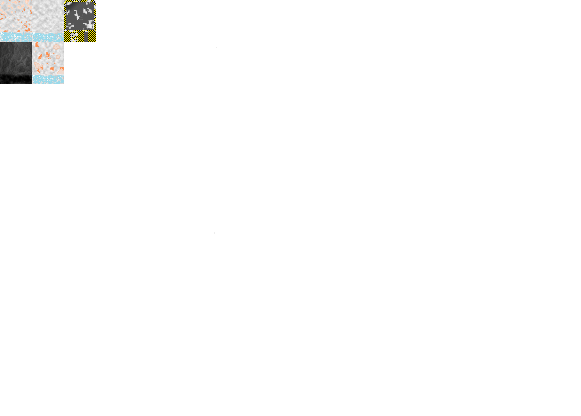
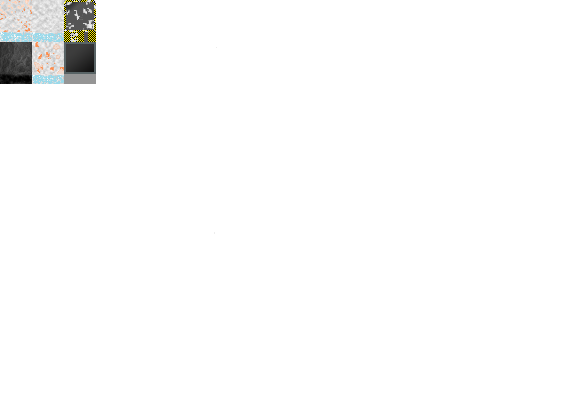
Fixed Level Editor and did some other stuff

Changed region(s): [[0.0929, 0.0938, 0.1859, 0.2188]]

diff --git a/Mars Raiders/Mars Raiders/Mars Raiders/Classes/Level/Level.cs b/Mars Raiders/Mars Raiders/Mars Raiders/Classes/Level/Level.cs
@@ -26,48 +26,64 @@ namespace Mars_Raiders
         private HUD hud = new HUD();
         public bool Paused;
         public bool FirstTickPaused;
-        public const int XOffset = 32, YOffset = 32;
-       
-        public void generate()
+        public const int XOffset = 64, YOffset = 64;
+
+        public void generate(LevelType Type)
         {
-            Map = new Tile[(int)MapDimensions.X, (int)MapDimensions.Y];
-            for (int y = 0; y < (int)MapDimensions.Y; y++)
+
+            if (Type == LevelType.Interior)
             {
-                for (int x = 0; x < (int)MapDimensions.X; x++)
+                MapDimensions = new Vector2(40, 20);
+                Map = new Tile[(int)MapDimensions.X, (int)MapDimensions.Y];
+                for (int y = 0; y < (int)MapDimensions.Y; y++)
                 {
-                    Map[x,y] = new TileIceRock();
-                }
-            }
-            for (int y = 0; y < (int)MapDimensions.Y; y++)
-            {                   
-                for (double x = 0; x < (int)MapDimensions.X; x++)
-                {
-                    if (y < (Math.Cos((x / 20) - 10)) * 100)
+                    for (int x = 0; x < (int)MapDimensions.X; x++)
                     {
-                        Map[(int)Math.Round(x), y] = new TileStone();
+                        Map[x, y] = new TileInteriorPanel();
                     }
-                    
                 }
             }
-                
-                
-            
+            else
+            {
+                Map = new Tile[(int)MapDimensions.X, (int)MapDimensions.Y];
+                for (int y = 0; y < (int)MapDimensions.Y; y++)
+                {
+                    for (int x = 0; x < (int)MapDimensions.X; x++)
+                    {
+                        Map[x, y] = new TileIceRock();
+                    }
+                }
+                for (int y = 0; y < (int)MapDimensions.Y; y++)
+                {
+                    for (double x = 0; x < (int)MapDimensions.X; x++)
+                    {
+                        if (y < (Math.Cos((x / 20) - 10)) * 100)
+                        {
+                            Map[(int)Math.Round(x), y] = new TileStone();
+                        }
 
-            for (int x = 1; x < 9; x++)
-            {
-                Map[x, 5].Raised = true;
-                Map[x, 4].Raised = true;
-            }
+                    }
+                }
 
-            for (int x = 3; x < (int)MapDimensions.X - 2; x++)
-            {
-                Map[x, 3].Raised = true;
+
+
+
+                for (int x = 1; x < 9; x++)
+                {
+                    Map[x, 5].Raised = true;
+                    Map[x, 4].Raised = true;
+                }
+
+                for (int x = 3; x < (int)MapDimensions.X - 2; x++)
+                {
+                    Map[x, 3].Raised = true;
+                }
+                for (int x = 3; x < 8; x++)
+                {
+                    Map[x, 7] = new TileStone();
+                }
+
             }
-            for (int x = 3; x < 8; x++)
-            {
-                Map[x, 7] = new TileStone();
-            }
-            
         }
         public void Draw(SpriteBatch SB, ContentManager C)
         {
@@ -97,6 +113,15 @@ namespace Mars_Raiders
         }
 
 
+        public Level()
+        {
+
+        }
+
+        public Level(Vector2 Dimensions, LevelType type)
+        {
+
+        }
  
 
         public void update(GameTime gametime)
@@ -156,6 +181,12 @@ namespace Mars_Raiders
                         break;
                     case "3":
                         Map[X, Y] = new TileIceRock();
+                        break;
+                    case "4":
+                        Map[X, Y] = new TileExteriorPanel();
+                        break;
+                    case "5":
+                        Map[X,Y] = new TileInteriorPanel();
                         break;
                 }
                 Map[X, Y].Raised = Convert.ToBoolean(Data[1]);

diff --git a/Mars Raiders/Mars Raiders/Mars Raiders/Classes/Entity/EntityCursor.cs b/Mars Raiders/Mars Raiders/Mars Raiders/Classes/Entity/EntityCursor.cs
@@ -14,6 +14,9 @@ namespace Mars_Raiders
     public class EntityCursor : Entity
     {
 
+        private bool BrushToggle;
+        private Tile BrushTile = new TileIce();
+
         public EntityCursor()
             : base()
         {
@@ -32,8 +35,8 @@ namespace Mars_Raiders
 
             if (!level.Paused)
             {
-                this.x = (int)((MousePosition.X + Level.XOffset) / Tile.TileSideLengthInPixels / Game1.Scale / Game1.Zoom);
-                this.y = (int)((MousePosition.Y + Level.YOffset) / Tile.TileSideLengthInPixels / Game1.Scale / Game1.Zoom);
+                this.x = (int)(MousePosition.X) - Level.XOffset;
+                this.y = (int)(MousePosition.Y) - Level.YOffset;
 
                  if (Game1.IM["Pause"].IsTapped)
                 {
@@ -41,8 +44,15 @@ namespace Mars_Raiders
                 }
                 if (Game1.IM["Raise"].IsTapped)
                 {
-                    level.Map[x, y].Raised = !level.Map[x, y].Raised;
+                   // level.Map[Functions.toGridCoords(x), Functions.toGridCoords(y)].Raised = !level.Map[Functions.toGridCoords(x), Functions.toGridCoords(y)].Raised;
+                    BrushToggle = !level.Map[Functions.toGridCoords(x), Functions.toGridCoords(y)].Raised;
                 }
+                if (Game1.IM["Raise"].IsDown)
+                {
+                    // level.Map[Functions.toGridCoords(x), Functions.toGridCoords(y)].Raised = !level.Map[Functions.toGridCoords(x), Functions.toGridCoords(y)].Raised;
+                    level.Map[Functions.toGridCoords(x), Functions.toGridCoords(y)].Raised = BrushToggle ;
+                }
+              
                 if (Game1.IM["ZoomOut"].IsTapped)
                 {
                     Game1.Zoom -= 0.1f;
@@ -53,19 +63,19 @@ namespace Mars_Raiders
                 }
                 if (Game1.IM["PlaceBlock1"].IsTapped)
                 {
-                    level.Map[x, y] = new TileGritIce();
+                    level.Map[Functions.toGridCoords(x), Functions.toGridCoords(y)] = new TileGritIce();
                 }
                 if (Game1.IM["PlaceBlock2"].IsTapped)
                 {
-                    level.Map[x, y] = new TileIceRock();
+                    level.Map[Functions.toGridCoords(x), Functions.toGridCoords(y)] = new TileIceRock();
                 }
                 if (Game1.IM["PlaceBlock3"].IsTapped)
                 {
-                    level.Map[x, y] = new TileStone();
+                     level.Map[Functions.toGridCoords(x), Functions.toGridCoords(y)] =  new TileStone();
                 }
                 if (Game1.IM["PlaceBlock4"].IsTapped)
                 {
-                    level.Map[x, y] = new TileIce();
+                    level.Map[Functions.toGridCoords(x), Functions.toGridCoords(y)] = new TileIce();
                 }
                 if (Game1.IM["Save"].IsTapped)
                 {

diff --git a/Mars Raiders/Mars Raiders/Mars Raiders/Classes/Entity/Entity.cs b/Mars Raiders/Mars Raiders/Mars Raiders/Classes/Entity/Entity.cs
@@ -32,7 +32,7 @@ namespace Mars_Raiders
 
         public void render(SpriteBatch SB, ContentManager CM)
         {                                                                                      //removed * FrameSize
-            SB.Draw(CM.Load<Texture2D>("Graphics/TileSheet/EntityFrames"), new Rectangle((int)(x *  Game1.Scale * Game1.Zoom) + Level.XOffset,(int)((y - RaisedOffset) * Game1.Scale * Game1.Zoom) + Level.YOffset, (int)(FrameSizeInPixels * Game1.Scale * Game1.Zoom), (int)(FrameSizeInPixels * Game1.Scale * Game1.Zoom)), //the destination rectangle
+            SB.Draw(CM.Load<Texture2D>("Graphics/TileSheet/EntityFrames"), new Rectangle((int)(x *  Game1.Scale * Game1.Zoom) + Level.XOffset,(int)(y * Game1.Scale * Game1.Zoom) + Level.YOffset, (int)(FrameSizeInPixels * Game1.Scale * Game1.Zoom), (int)(FrameSizeInPixels * Game1.Scale * Game1.Zoom)), //the destination rectangle
               new Rectangle((int)(FrameSizeInPixels * (TextureLocation.X + Frame.X)), (int)((FrameSizeInPixels * (TextureLocation.Y + Frame.Y))), FrameSizeInPixels, FrameSizeInPixels), Color.White,0f,new Vector2 (0,0),SpriteEffects.None,Depth); //the source rectangle
         
         }

diff --git a/Mars Raiders/Mars Raiders/Mars Raiders/Classes/Entity/Player.cs b/Mars Raiders/Mars Raiders/Mars Raiders/Classes/Entity/Player.cs
@@ -35,23 +35,14 @@ namespace Mars_Raiders
         protected override void defineTexture()
         {
             TextureLocation = new Vector2(0, 1);
-            x = 100;
-            y = 100;
+            x = 32;
+            y = 32;
 
         }
 
         public override void update(GameTime gt, Level level)
         {
-            if (level.Map[(int)Math.Round((decimal)(x / Tile.TileSideLengthInPixels)), (int)Math.Round((decimal)(y / Tile.TileSideLengthInPixels)) ].Raised)
-            {
-              this.RaisedOffset = Tile.RaisedHeightInPixels;
-              Depth = 0.22f;
-            }
-            else
-            {
-                Depth = 0.49f;
-                RaisedOffset = 0;
-            }
+           
 
             Frame.Y = direction;
             elapsed += (float)gt.ElapsedGameTime.TotalMilliseconds;

diff --git a/Mars Raiders/Mars Raiders/Mars Raiders/Classes/Level/TileExteriorPanel.cs b/Mars Raiders/Mars Raiders/Mars Raiders/Classes/Level/TileExteriorPanel.cs
@@ -1,0 +1,35 @@
+using System;
+using System.Collections.Generic;
+using System.Linq;
+using System.Text;
+using Microsoft.Xna.Framework;
+using Microsoft.Xna.Framework.Audio;
+using Microsoft.Xna.Framework.Content;
+using Microsoft.Xna.Framework.GamerServices;
+using Microsoft.Xna.Framework.Graphics;
+using Microsoft.Xna.Framework.Input;
+using Microsoft.Xna.Framework.Media;
+using Microsoft.Xna.Framework.Storage;
+
+namespace Mars_Raiders
+{
+    public class TileExteriorPanel : Tile
+    {
+
+
+        public TileExteriorPanel() : base()
+        {
+
+        }
+        protected override void define()
+        {
+            TextureLocation = new Vector2(2, 0);     //change txture location here
+            ID = 4;
+        }
+        public override void update(GameTime gt)
+        {
+        
+        }
+    
+}
+}

diff --git a/Mars Raiders/Mars Raiders/Mars Raiders/Classes/Level/TileInteriorPanel.cs b/Mars Raiders/Mars Raiders/Mars Raiders/Classes/Level/TileInteriorPanel.cs
@@ -1,0 +1,35 @@
+using System;
+using System.Collections.Generic;
+using System.Linq;
+using System.Text;
+using Microsoft.Xna.Framework;
+using Microsoft.Xna.Framework.Audio;
+using Microsoft.Xna.Framework.Content;
+using Microsoft.Xna.Framework.GamerServices;
+using Microsoft.Xna.Framework.Graphics;
+using Microsoft.Xna.Framework.Input;
+using Microsoft.Xna.Framework.Media;
+using Microsoft.Xna.Framework.Storage;
+
+namespace Mars_Raiders
+{
+    public class TileInteriorPanel : Tile
+    {
+
+
+        public TileInteriorPanel() : base()
+        {
+
+        }
+        protected override void define()
+        {
+            TextureLocation = new Vector2(2, 1);     //change txture location here
+            ID = 5;
+        }
+        public override void update(GameTime gt)
+        {
+        
+        }
+    
+}
+}

diff --git a/Mars Raiders/Mars Raiders/Mars Raiders/Classes/Contents.cs b/Mars Raiders/Mars Raiders/Mars Raiders/Classes/Contents.cs
@@ -44,15 +44,15 @@ namespace Mars_Raiders
 
         public void Level_Creator_Initiate(ContentManager Content)
         {
-            Game1.Level.generate();
+            Game1.Level.generate(LevelType.Interior);
             Game1.Level.mode = "Edit"; //sets to editor mode
             Game1.ProgramPosition = (int)ProgramPositions.LevelCreator;
         }
 
         public void Play_Game_Initiate()
         {
-            Game1.Level.generate();
-            Game1.Level.load();
+            Game1.Level.generate(LevelType.Interior);
+          //  Game1.Level.load();
             Game1.Level.mode = "Play";
             Game1.ProgramPosition = (int)ProgramPositions.PlayGame;
         }

diff --git a/Mars Raiders/Mars Raiders/Mars Raiders/Classes/Game1.cs b/Mars Raiders/Mars Raiders/Mars Raiders/Classes/Game1.cs
@@ -157,10 +157,10 @@ namespace Mars_Raiders
 
             switch (ProgramPosition)
             {
-                case (int)ProgramPositions.MenuStart:
+                case (int)ProgramPositions.MenuStart | (int)ProgramPositions.MenuStartInitiate:
                     Menu.Draw(spriteBatch, Content);
                     break;
-                case (int)ProgramPositions.LevelCreator:
+                case (int)ProgramPositions.LevelCreator | (int) ProgramPositions.LevelCreatorInitiate:
                     Game1.Level.Draw(spriteBatch, Content);
                     break;
                 case (int)ProgramPositions.PlayGame:

diff --git a/Mars Raiders/Mars Raiders/Mars Raiders/Classes/Entity/HUD.cs b/Mars Raiders/Mars Raiders/Mars Raiders/Classes/Entity/HUD.cs
@@ -16,6 +16,10 @@ namespace Mars_Raiders
     class HUD
     {
 
+
+
+        private Tile DisplayTile = new TileExteriorPanel();
+
         private Texture2D texture;
         public void update(GameTime time)
         {
@@ -32,6 +36,13 @@ namespace Mars_Raiders
             {
                 sb.Draw(texture, new Rectangle(0, 0,(int) Game1.ScreenSize.X, (int)Game1.ScreenSize.Y), Color.White);
             }
+
+    
+        }
+
+        public void setDrawTile(Tile TileToDisplay)
+        {
+            DisplayTile = TileToDisplay;
         }
     }
 }

diff --git a/Mars Raiders/Mars Raiders/Mars Raiders/Classes/Level/Tile.cs b/Mars Raiders/Mars Raiders/Mars Raiders/Classes/Level/Tile.cs
@@ -32,6 +32,7 @@ namespace Mars_Raiders
         protected abstract void define();
         public abstract void update(GameTime gt);
 
+      //  public void draw(SpriteBatch SB, CM, )
         public void draw(SpriteBatch SB, ContentManager CM, int x, int y, Level level)
         {
             if (this.shouldRenderRaised(level, x, y)) //if it is raised

diff --git a/Mars Raiders/Mars Raiders/Mars Raiders/Classes/Misc/Function.cs b/Mars Raiders/Mars Raiders/Mars Raiders/Classes/Misc/Function.cs
@@ -34,5 +34,10 @@ namespace Mars_Raiders
         {
             return (float)Math.PI * angle / 180;
         }
+
+        public static int toGridCoords(float c)
+        {
+            return (int) Math.Round(c / Tile.TileSideLengthInPixels);
+        }
     }
 }

diff --git a/Mars Raiders/Mars Raiders/Mars Raiders/Classes/Level/LevelType.cs b/Mars Raiders/Mars Raiders/Mars Raiders/Classes/Level/LevelType.cs
@@ -1,0 +1,14 @@
+using System;
+using System.Collections.Generic;
+using System.Linq;
+using System.Text;
+
+namespace Mars_Raiders
+{
+    public enum LevelType : int
+    {
+        Interior = 0,
+        Outside = 1,
+        Underground = 2
+    }
+}
